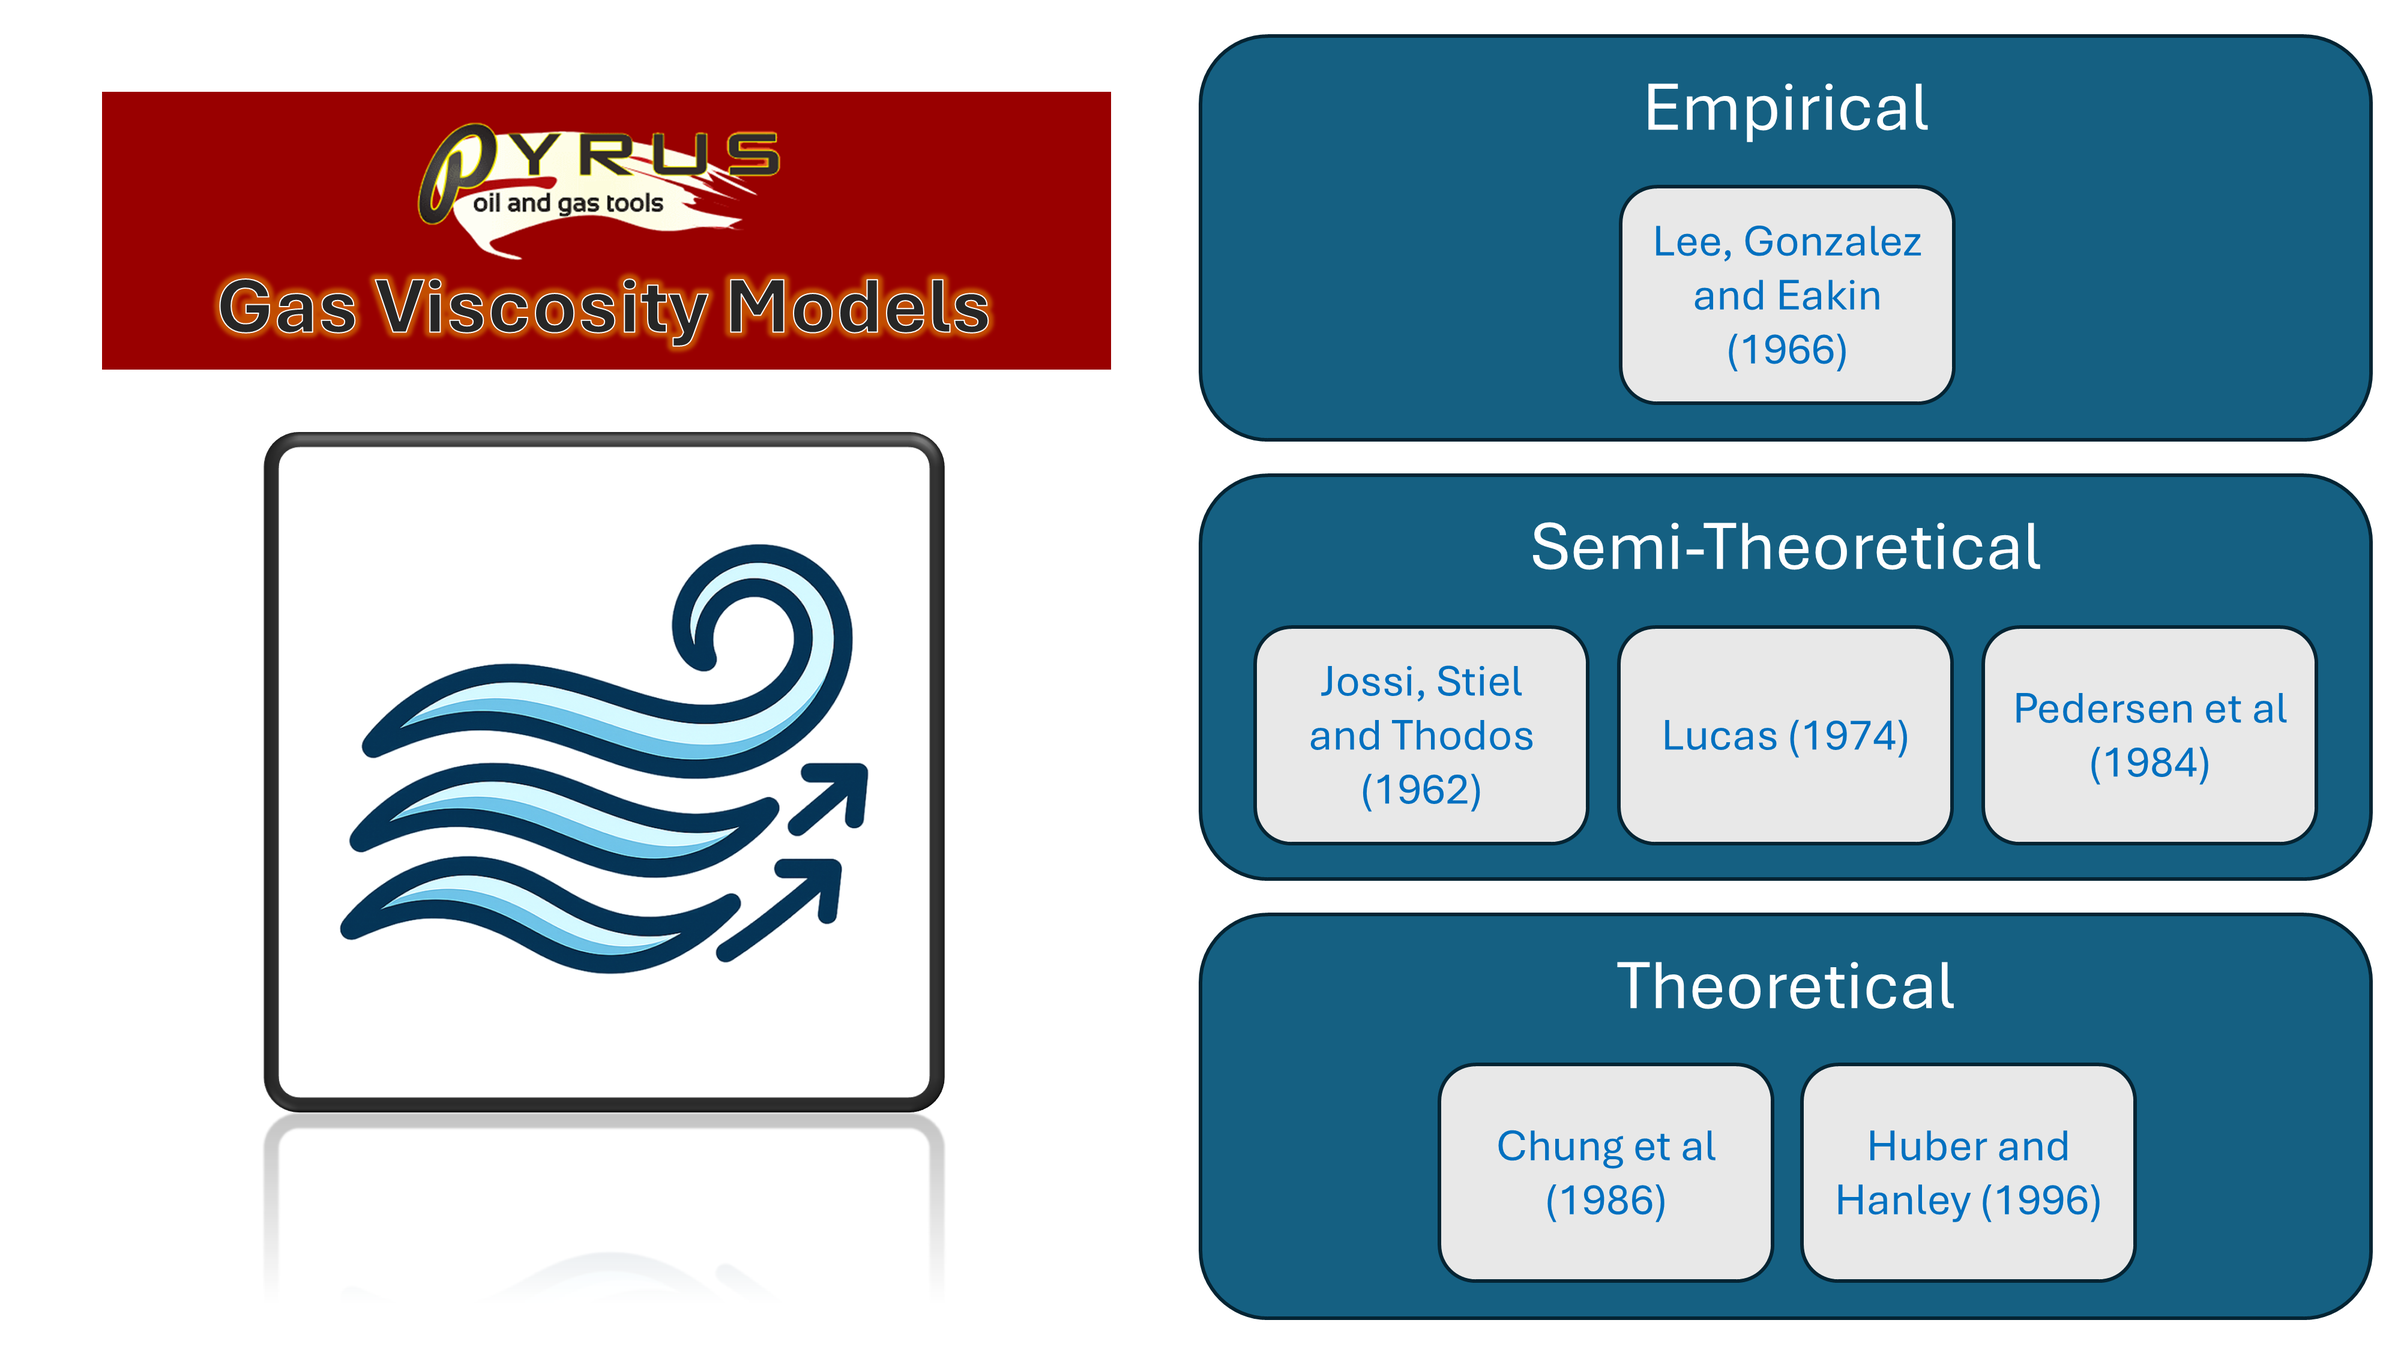
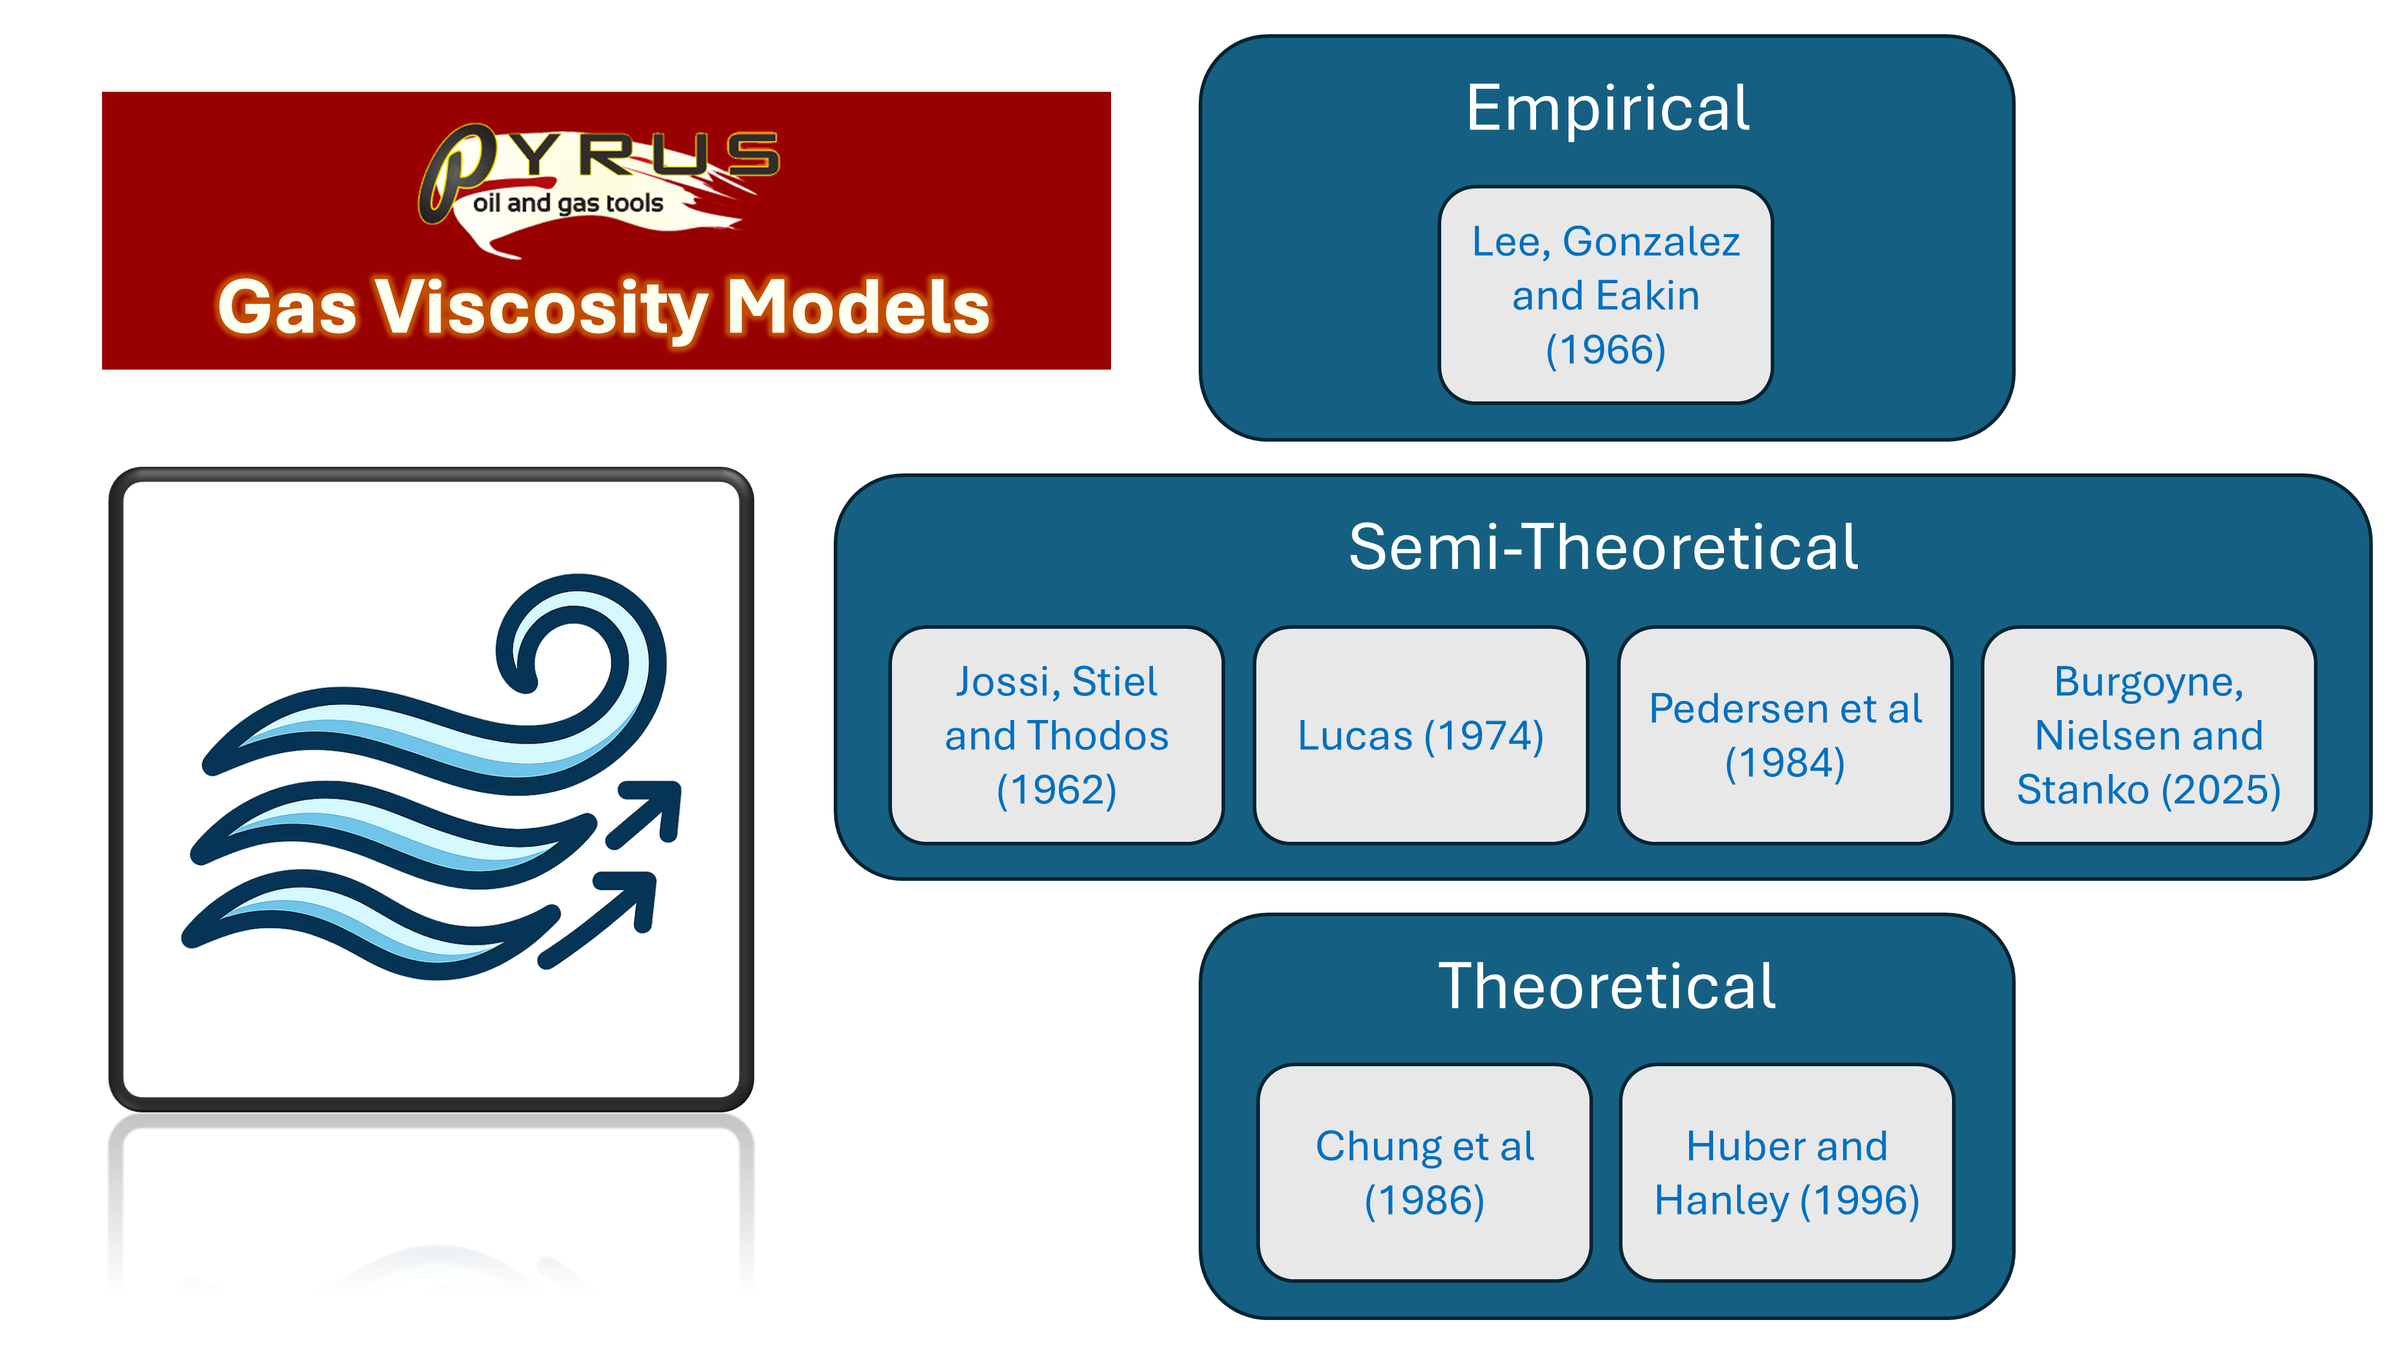
Update BNS viscosity post with benchmark information

diff --git a/_posts/analysis/2026-04-05-viscosity-bns.md b/_posts/analysis/2026-04-05-viscosity-bns.md
@@ -24,7 +24,7 @@ The LBC viscosity method is based on the observation that the residual viscosity
 
 <figure>
 	<a href="{{ site.url }}/images/Analysis/viscosity-modelling/viscosity-figure3.png" data-lightbox="image-1" data-title="Jossi, Stiel and Thodos data for residual viscosity versus reduced density exhibits a consistent trend for normal fluids, with some variation for water, ammonia and hydrogen.">
-		<img src="{{ site.url }}/images/Analysis/viscosity-modelling/viscosity-figure3.png" alt="Comparison of retuned Jossi, Stiel and Thodos parameters from LBC (1964) and BNS (2025)."/>
+		<img src="{{ site.url }}/images/Analysis/viscosity-modelling/viscosity-figure3.png" alt="Jossi, Stiel and Thodos data for residual viscosity versus reduced density exhibits a consistent trend for normal fluids, with some variation for water, ammonia and hydrogen."/>
 	</a>
 	<figcaption><strong>Figure 1: Jossi, Stiel and Thodos data for residual viscosity versus reduced density exhibits a consistent trend for normal fluids, with some variation for water, ammonia and hydrogen.</strong></figcaption>
 </figure>
@@ -191,10 +191,10 @@ The re-regressed JST relationship versus the original is shown in Figure 2. This
 	<a href="{{ site.url }}/images/Analysis/viscosity-modelling/viscosity-figure28.png" data-lightbox="image-2" data-title="Comparison of retuned Jossi, Stiel and Thodos parameters from LBC (1964) and BNS (2025).">
 		<img src="{{ site.url }}/images/Analysis/viscosity-modelling/viscosity-figure28.png" alt="Comparison of retuned Jossi, Stiel and Thodos parameters from LBC (1964) and BNS (2025)."/>
 	</a>
-	<figcaption><strong>Figure 2: Lohrenz, Bray and Clark (1964) work flow to determine gas and liquid viscosities.</strong></figcaption>
+	<figcaption><strong>Figure 2: Comparison of retuned Jossi, Stiel and Thodos parameters from LBC (1964) and BNS (2025).</strong></figcaption>
 </figure>
 
-<div class="notice-info">It is interesting to note that neither the original JST equation, nor the retuned BNS equation actually match the published equation shown in Figure 2. By examination of Figure 1 it can be seen that the actual equations are more in line with the methane datapoints.</div>
+<div class="notice-info">It is interesting to note that neither the original JST equation, nor the retuned BNS equation actually match the published trendline published in the paper as shown in Figure 2. The comparison graph shown on the right hand side in Figure 2 shows the original JST equation with experimental datapoints overlaid. It can be seen that the equations used appear to lie along the same trends as observed with methane experimental datapoints.</div>
 
 ## Implementation in Java
 
@@ -783,16 +783,131 @@ A dataset comprising 1,156 data points was compiled from published data in the l
 
 <figure>
 	<a href="{{ site.url }}/images/Analysis/viscosity-modelling/viscosity-figure27.png" data-lightbox="image-3" data-title="Predicted versus measured viscosities for pure fluids, binary mixtures and hydrocarbon mixtures using BNS (2025).">
-		<img src="{{ site.url }}/images/Analysis/viscosity-modelling/viscosity-figure27.png" alt="Comparison of retuned Jossi, Stiel and Thodos parameters from LBC (1964) and BNS (2025)."/>
+		<img src="{{ site.url }}/images/Analysis/viscosity-modelling/viscosity-figure27.png" alt="Predicted versus measured viscosities for pure fluids, binary mixtures and hydrocarbon mixtures using BNS (2025)."/>
 	</a>
 	<figcaption><strong>Figure 3: Predicted versus measured viscosities for pure fluids, binary mixtures and hydrocarbon mixtures using BNS (2025).</strong></figcaption>
 </figure>
 
 ### Python versus Java Performance
 
-The open source code for the BNS method is implemented in Python and [Visual Basic]. As of the date of this blog post (early April 2026) it is understood that Mark Burgoyne is implementing various methods for PyResToolbox in the Rust language which should be much faster.
+The open source code for the BNS method is implemented in Python, Visual Basic, Fortran and Rust. As of the date of this blog post (early April 2026) it is understood that Mark Burgoyne testing the speedups achieved by re-writing some methods of PyResToolbox in the Rust language which should be much faster.
 
-A comparison between the Python implementation in PyResToolbox and the Java implementation in Pyrus will be included in this blog post once completed.
+A comparison between the Java implementation and the implementation included in PyResToolbox was tested using simple benchmark programs. These tested both the number of calculations per second achieved for single randomised compositions, and the number of calculations per second when executing in batch mode for a single composition at multiple pressures (feature included in the Python implementation). In batch mode, the Python implementation is able to take advantage of Numpy which is optimised for mathematical matrix operations, and can therefore be much faster. As an equivalent for Java, the logical approach is to implement a parallel processing optimisation, which it can be seen is rather trival to implement using Java streams. The benchmark programs that were used are:
+
+```java
+public void testGasViscosityBNS() {
+    StopWatch sw = new StopWatch();
+    sw.start();
+    int count = 0;
+    int n_samples = 1; \\ 1 for single mode and 1000 for pressure batch mode
+    while (sw.getTime(TimeUnit.SECONDS) < 5) {
+        double[] p_psia = new double[n_samples];
+        double[] mu = new double[n_samples];
+        for (int i = 0; i < n_samples; i++) {
+            p_psia[i] = AdvMath.random(FlashVLE.P_SC.doubleValue(POUND_PER_SQUARE_INCH), 15000.0);
+        }
+        double t_degf = AdvMath.random(FlashVLE.T_SC.doubleValue(FAHRENHEIT), 300.0);
+        double sg = AdvMath.random(0.65, 0.9);
+        boolean has_inerts = Math.random() < 0.3;
+        double co2 = 0.0, h2s = 0.0, n2 = 0.0, h2 = 0.0;
+        if (has_inerts) {
+            double inert_frac = Math.random();
+            co2 = AdvMath.random(0.0, inert_frac);
+            h2s = AdvMath.random(0.0, 1.0 - co2);
+            n2 = AdvMath.random(0.0, 1.0 - co2 - h2s);
+            h2 = AdvMath.random(0.0, 1.0 - co2 - h2s - n2);
+        }
+        gasViscosityBnsBatch(p_psia, t_degf, sg, co2, h2s, n2, h2, mu);
+
+        // Basic output check
+        for (double u : mu) {
+            assertThat(Double.isFinite(u));
+            assertThat(u).isGreaterThan(0.0);
+        }
+        count += n_samples;
+    }
+    sw.stop();
+    LOG.log(Level.INFO, "Java achieved {0} BNS viscosity calculations per second", new Object[]{
+        String.format("%.1f", count / (sw.getTime() / 1000.0))
+    });
+}
+
+private static void gasViscosityBnsBatch(double[] psias, double degf, double sg, double co2, double h2s, double n2,
+        double h2, double[] mu_out) {
+    final int N = psias.length;
+    IntStream.range(0, N).parallel().forEach(i -> {
+        mu_out[i] = PVT.gasViscosityBNS(psias[i], degf, sg, co2, h2s, n2, h2);
+    });
+}
+```
+
+And for Python:
+
+```python
+import time
+import random
+import math
+import numpy as np
+from pyrestoolbox import gas
+
+# Constants matching the Java test
+P_SC = 14.7 # psia
+T_SC = 60.0 # degF
+
+def random_between(a, b):
+    return a + (b - a) * random.random()
+
+def run_benchmark(duration_sec=5.0, n_samples=1000):
+    count = 0
+    rng = np.random.default_rng()
+    start = time.time()
+    while time.time() - start < duration_sec:
+        p_psia = rng.uniform(P_SC, 15000.0, size=n_samples)
+        t_degf = random_between(T_SC, 300.0)
+        sg = random_between(0.65, 0.9)
+        has_inerts = random.random() < 0.3
+        if has_inerts:
+            inert_frac = random.random()
+            co2 = random_between(0.0, inert_frac)
+            h2s = random_between(0.0, 1.0 - co2)
+            n2  = random_between(0.0, 1.0 - co2 - h2s)
+            h2  = random_between(0.0, 1.0 - co2 - h2s - n2)
+        else:
+            co2 = h2s = n2 = h2 = 0.0
+
+        # Call PyResToolbox BNS viscosity
+        mu = gas.gas_ug(
+            p=p_psia,
+            sg=sg,
+            degf=t_degf,
+            zmethod='BNS',
+            cmethod='BUR',
+            co2=co2,
+            h2s=h2s,
+            n2=n2,
+            h2=h2
+        )
+
+        # Basic output checks
+        if not np.all(np.isfinite(mu)) or np.any(mu <= 0.0):
+            raise ValueError("Non-physical viscosities in vectorized run")
+        count += n_samples
+
+    elapsed = time.time() - start
+    rate = count / elapsed
+    print(f"Python achieved {rate:,.1f} BNS viscosity calculations per second")
+```
+
+<div class="notice-info">In preparation for sharing the Java code, much of unit conversion logic was stripped out to speed up execution in Java. This removes a lot of the overhead of JScience `Amount` class. Benchmark results with the code as shown in this blog post are about 2&times; to 3&times; slower.</div>
+
+The speed up obtained is shown graphically below in Figure 4. Note the use of the logarithmic scale. This was necessary as otherwise the number of calculations per second for the single mode Python implementation was not a visible bar on the chart.
+
+<figure>
+	<a href="{{ site.url }}/images/Analysis/viscosity-modelling/viscosity-figure29.png" data-lightbox="image-4" data-title="Comparison calculation speeds for BNS viscosity method in Python versus Java implementations.">
+		<img src="{{ site.url }}/images/Analysis/viscosity-modelling/viscosity-figure29.png" alt="Comparison calculation speeds for BNS viscosity method in Python versus Java implementations."/>
+	</a>
+	<figcaption><strong>Figure 4: Comparison calculation speeds for BNS viscosity method in Python versus Java implementations.</strong></figcaption>
+</figure>
 
 ## References
 

diff --git a/_posts/analysis/2026-04-03-gas-viscosity-modelling.md b/_posts/analysis/2026-04-03-gas-viscosity-modelling.md
@@ -154,8 +154,8 @@ The correlation models above calculate viscosity at a given temperature and pres
 Methods that are based on corresponding states include:
 
  1. **Comings et al (1944)**: This graphical method was an early industry standard.
- 2. [**Pedersen et al (1984, 1987)**]({{ site.url }}/analysis/viscosity-pedersen/): Uses a modified Benedict-Webb-Rubin virial equation of state for methane reference fluid together with custom mixing rules.
- 3. [**Lucas (1974)**]({{ site.url }}/analysis/viscosity-lucas/): Uses propane as the reference fluid together with a modification to kinetic theory to derive an equation for dimensionless viscosity as a function of reduced temperature and reduced pressure.
+ 2. [**Lucas (1974)**]({{ site.url }}/analysis/viscosity-lucas/): Uses propane as the reference fluid together with a modification to kinetic theory to derive an equation for dimensionless viscosity as a function of reduced temperature and reduced pressure.
+ 3. [**Pedersen et al (1984, 1987)**]({{ site.url }}/analysis/viscosity-pedersen/): Uses a modified Benedict-Webb-Rubin virial equation of state for methane reference fluid together with custom mixing rules.
 
 ##### Comings Corresponding States Approach
 
@@ -206,6 +206,7 @@ Methods that are based on residual viscosity include:
 
  1. **Jossi, Stiel and Thodos (1962)**: This method is often encountered in the [Lohrenz-Bray-Clark viscosity approach]({{ site.url }}/analysis/viscosity-lbc/).
  2. [**TRAPP**]({{ site.url }}/analysis/viscosity-trapp/): The **TRA**nsport **P**roperties **P**rediction method uses a combination of corresponding states and residual viscosity with propane as the reference fluid. 
+ 3. [**Burgoyne, Nielsen and Stanko (2025)**]({{ site.url }}/analysis/viscosity-bns/): Update to Jossi, Stiel and Thodos based on a five-component mixture model for pseudo-hydrocarbon plus carbon dioxide, hydrogen sulphide, nitrogen and hydrogen components. Reduced density derived from Peng-Robinson cubic equation of state.
 
 Note that the [Lohrenz-Bray-Clark (LBC) correlation](https://wiki.whitson.com/bopvt/visc_correlations/#lohrenz-bray-clark-correlation) is often used in the oil and gas industry. Although it is not listed above, it adopts the Jossi, Stiel and Thodos (JST) method which is thus often (incorrectly) referred to as LBC. It is incorporated into almost all software packages that deal with fluid properties, not because it is necessarily the best approach, but because it is expected that the method should be available. As such it is almost universally applied. Furthermore, it is intended to calculate the viscosity of both gases and liquids, at high and low temperature and pressure. A [separate article investigating the shortcomings of the Lohrenz-Bray-Clark method]({{ site.url }}/analysis/viscosity-lbc/) goes into more detail on this method. Interestingly the original procedure proposed by Lohrenz, Bray and Clark applied a different viscosity technique depending on whether the fluid is a gas or a liquid. For gases, the graphical corresponding states method of Carr et al for mixtures was applied, but with a digitised graphical chart that facilitated computerised interpolation.
 
@@ -276,6 +277,7 @@ Implementations of the Chapman-Enskog model in Pyrus include:
 
  - Ali, J. K. 1991. Evaluation of Correlations for Estimating the Viscosities of Hydrocarbon Fluids. _J Pet Sci Eng_ **5**: 351-369. [https://doi.org/10.1016/0920-4105(91)90053-P](https://doi.org/10.1016/0920-4105(91)90053-P).
  - Born, M. and Green, H. S. 1947. A General Kinetic Theory of Liquids III: Dynamical Properties. _Proc_, Royal Society, London, England, 1 September, **190** (1023): 455–474. [https://doi.org/10.1098/rspa.1947.0088](https://doi.org/10.1098/rspa.1947.0088).
+ - Burgoyne, M. W., Nielsen, M. H., and Stanko, M. 2025. A Universal, EOS-Based Correlation for Z-Factor, Viscosity and Enthalpy for Hydrocarbon and H<sub>2</sub>, N<sub>2</sub>, CO<sub>2</sub>, H<sub>2</sub>S Gas Mixtures. Paper presented at the ADIPEC, Abu Dhabi, UAE, 3-6 November. SPE-229932-MS. [https://doi.org/10.2118/229932-MS](https://doi.org/10.2118/229932-MS).
  - Carr, N. L., Kobayashi, R., and Burrows, D. B. 1954. Viscosity of Hydrocarbon Gases Under Pressure. _J Pet Technol_ **6** (10): 47-55. SPE-297-G. [https://doi.org/10.2118/297-G](https://doi.org/10.2118/297-G).
  - [Comings, E. W., Mayland, B. J., and Egly, R. S. 1944. The Viscosity of Gases at High Pressures. _University of Illinois Engineering Experiment Station Bulletin No. 354_.](http://hdl.handle.net/2142/4478)
  - [Chapman, S. and Cowling, T. G. 1970. _The Mathematical Theory of Non-Uniform Gases_, third edition. Cambridge: Cambridge University Press.](https://www.cambridge.org/us/universitypress/subjects/mathematics/fluid-dynamics-and-solid-mechanics/mathematical-theory-non-uniform-gases-account-kinetic-theory-viscosity-thermal-conduction-and-diffusion-gases)
